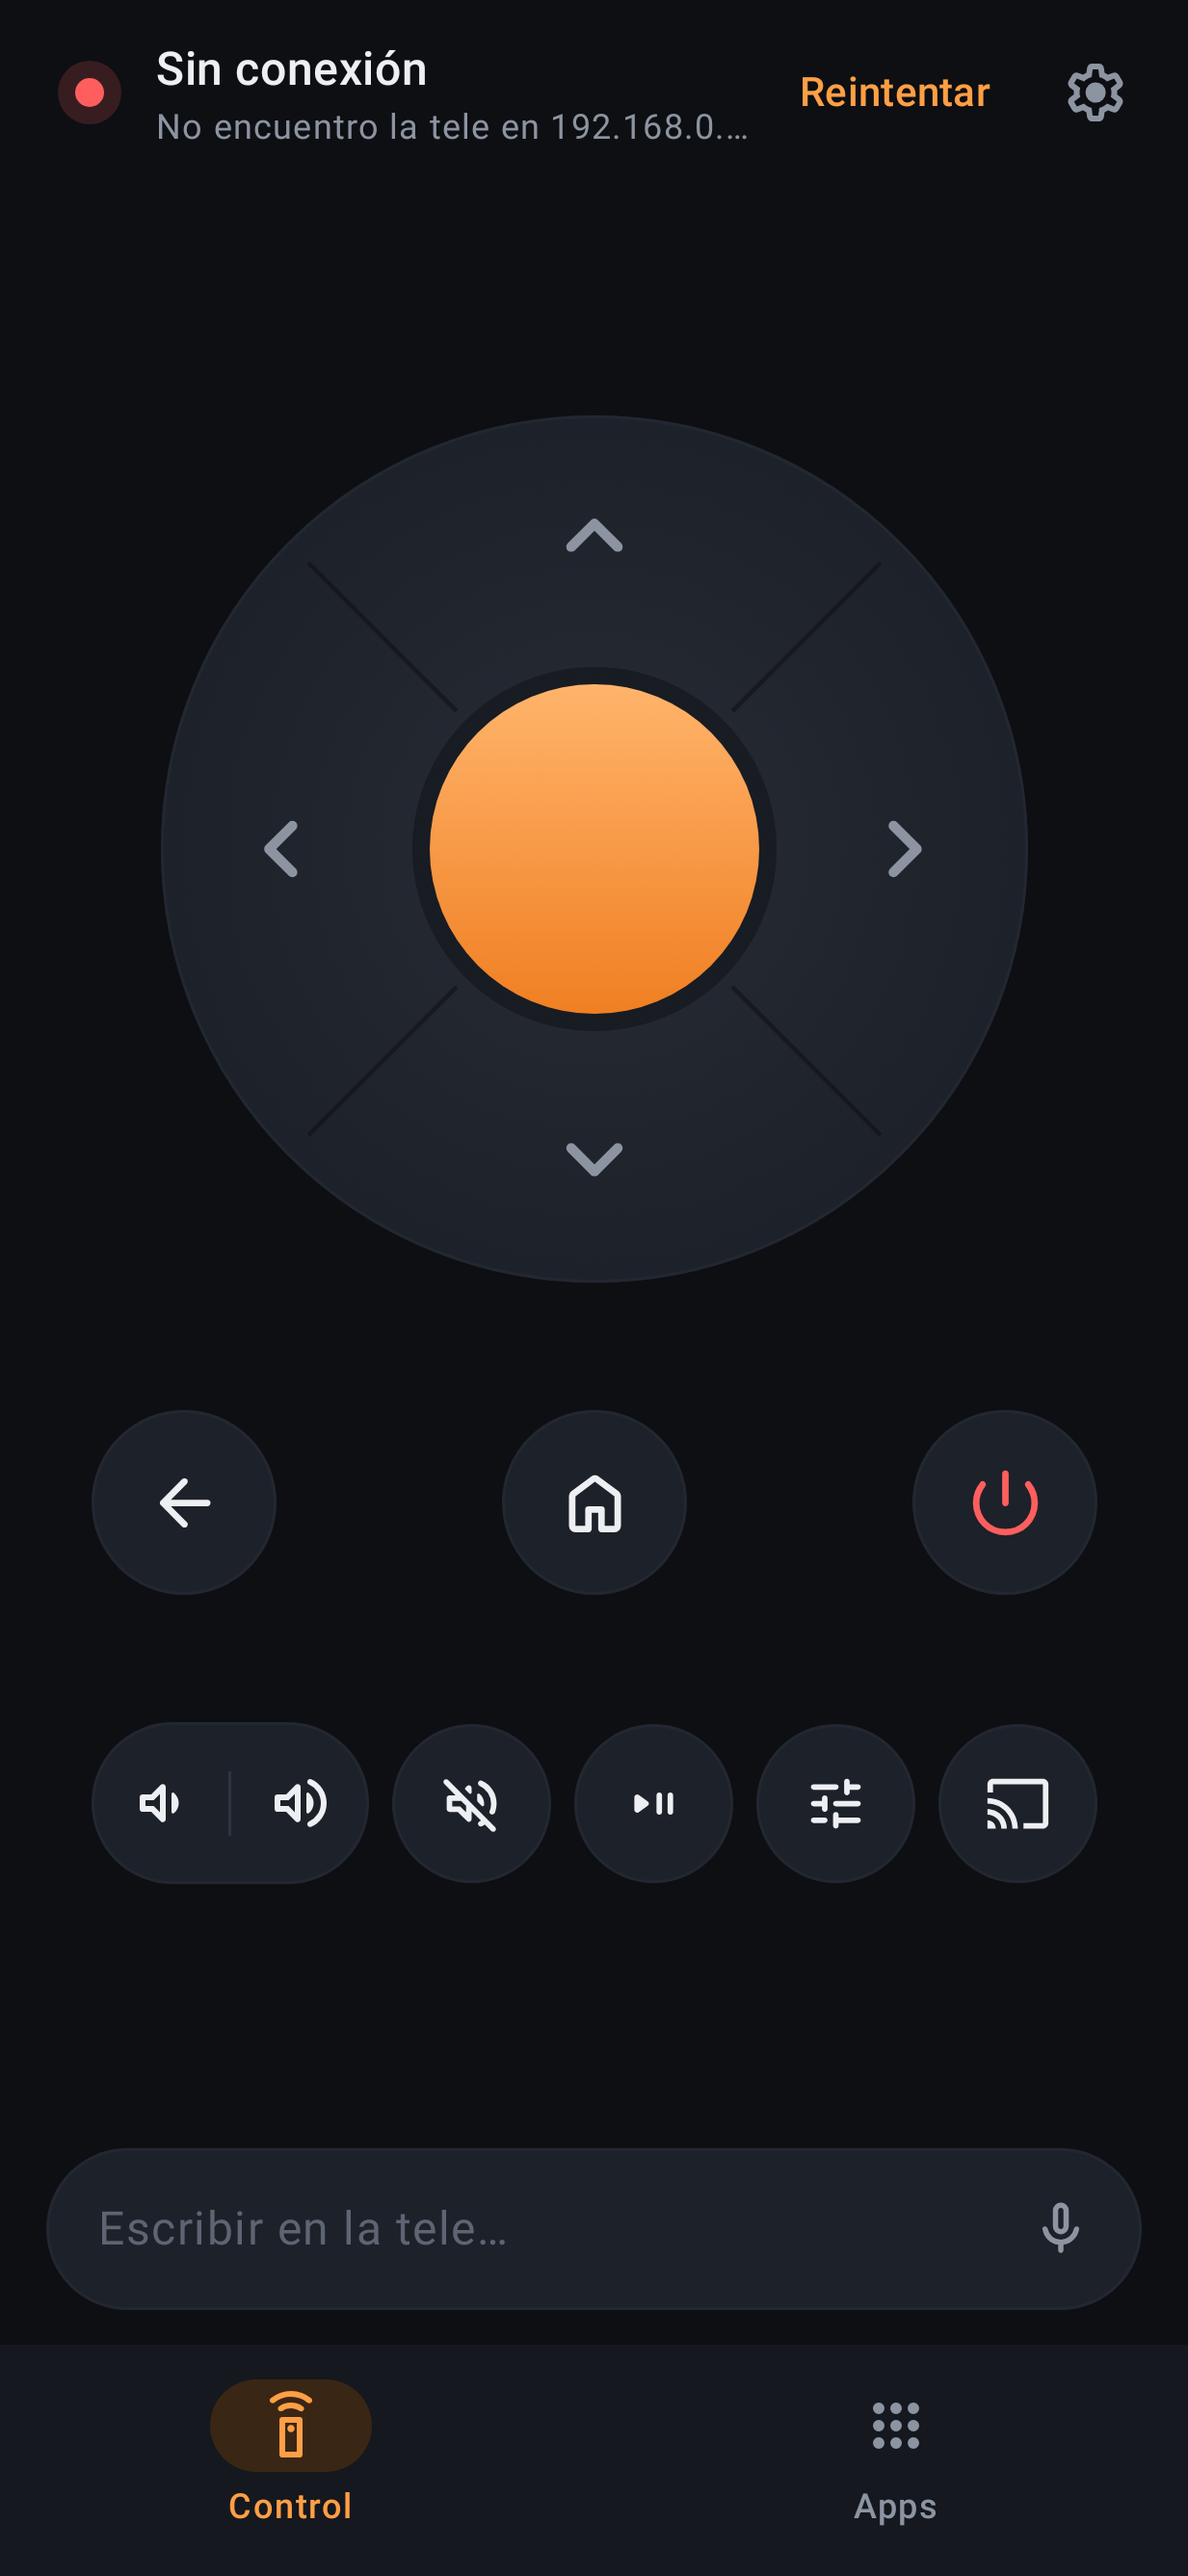
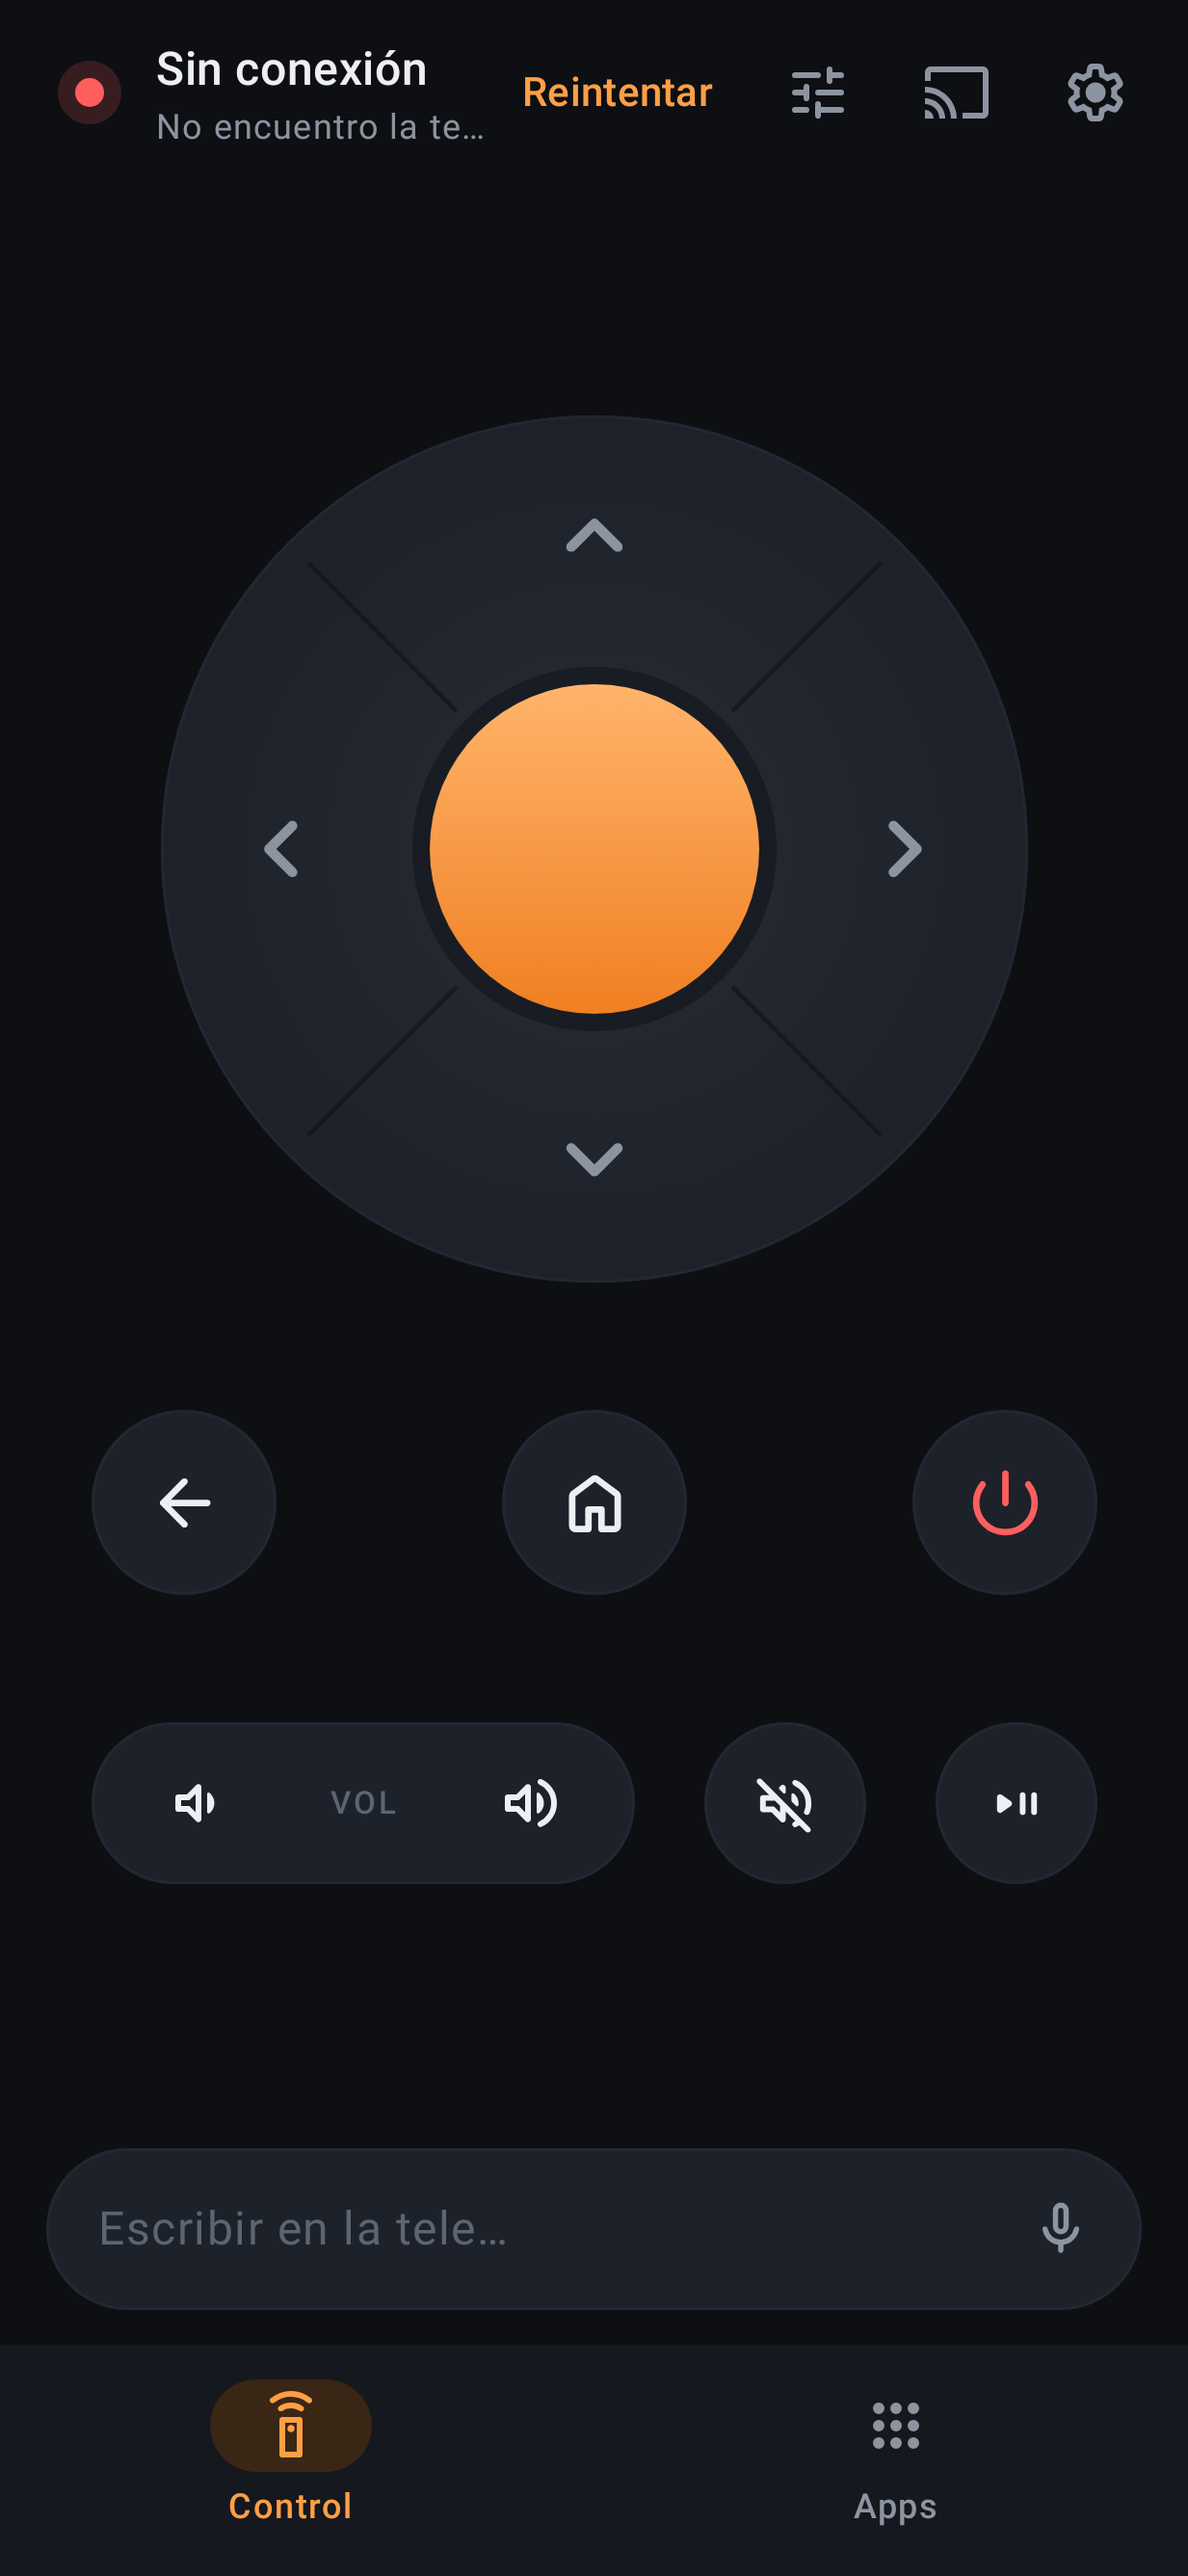
Panel rápido y Transmitir pasan a la línea de estado
Quedan al lado de Ajustes, como íconos. La fila de abajo vuelve a ser
volumen · silencio · play/pausa, con el balancín más ancho.

diff --git a/app/src/main/java/com/gonzalo/controltv/ui/ControlScreen.kt b/app/src/main/java/com/gonzalo/controltv/ui/ControlScreen.kt
@@ -10,7 +10,6 @@ import androidx.compose.material3.DropdownMenu
 import androidx.compose.material3.DropdownMenuItem
 import androidx.compose.runtime.remember
 import androidx.compose.ui.platform.LocalContext
-import androidx.compose.ui.unit.Dp
 import androidx.core.content.ContextCompat
 import android.content.ActivityNotFoundException
 import android.content.Intent
@@ -127,7 +126,14 @@ fun ControlScreen(
     }
 
     Column(modifier.fillMaxSize()) {
-        StatusHeader(state, appLabel, settings.ip, onOpenSettings, actions::retry, onRepair)
+        StatusHeader(state, appLabel, settings.ip, onOpenSettings, actions::retry, onRepair) {
+            // La tecla de configuración del control: abre el panel rápido de Google TV.
+            // Es la única forma de llegar a la configuración: la tele rechaza los links a esas pantallas.
+            IconButton(onClick = { actions.key(Keys.SETTINGS) }) {
+                Icon(painterResource(R.drawable.ic_tune), "Panel rápido", tint = Palette.TextMuted)
+            }
+            CastKey(casting, actions::castMedia, actions::stopCasting)
+        }
 
         BoxWithConstraints(
             Modifier
@@ -143,7 +149,7 @@ fun ControlScreen(
             } else {
                 min(min(maxWidth * 0.7f, maxHeight - 12.dp), 300.dp)
             }.coerceAtLeast(120.dp)
-            // Las filas son un poco más anchas que el pad, para que el volumen entre junto a tres botones.
+            // Las filas son un poco más anchas que el pad, para que el volumen tenga lugar junto a sus dos botones.
             val clusterWidth = maxOf(padSize + 48.dp, 300.dp).coerceAtMost(maxWidth)
             // En pantallas altas, el aire sobrante se reparte entre las filas en vez de quedar todo arriba y abajo.
             val gap = ((maxHeight - padSize - 64.dp - 56.dp) / 4).coerceIn(28.dp, 44.dp)
@@ -173,8 +179,6 @@ fun ControlScreen(
                             border = if (poweredOff) Palette.Red.copy(alpha = 0.5f) else Palette.OutlineSoft,
                         )
                     }
-                    // Volumen y cuatro botones: los botones se achican un poco antes que el balancín.
-                    val smallKey = ((clusterWidth - 96.dp - 8.dp * 4) / 4).coerceIn(44.dp, 56.dp)
                     Row(
                         Modifier.width(clusterWidth),
                         horizontalArrangement = Arrangement.SpaceBetween,
@@ -183,18 +187,14 @@ fun ControlScreen(
                         VolumeRocker(
                             onDown = { actions.key(Keys.VOLUME_DOWN) },
                             onUp = { actions.key(Keys.VOLUME_UP) },
-                            width = clusterWidth - smallKey * 4 - 8.dp * 4,
+                            width = clusterWidth - 56.dp * 2 - 24.dp * 2,
                         )
                         RoundKey(
                             R.drawable.ic_volume_off, "Silencio", { actions.key(Keys.VOLUME_MUTE) },
-                            size = smallKey, hold = Hold.None,
+                            size = 56.dp, hold = Hold.None,
                             tint = if (volume?.muted == true) Palette.Red else Palette.Text,
                         )
-                        RoundKey(R.drawable.ic_play_pause, "Play o pausa", { actions.key(Keys.MEDIA_PLAY_PAUSE) }, size = smallKey, hold = Hold.None)
-                        // La tecla de configuración del control: abre el panel rápido de Google TV.
-                        // Es la única forma de llegar a la configuración: la tele rechaza los links a esas pantallas.
-                        RoundKey(R.drawable.ic_tune, "Panel rápido", { actions.key(Keys.SETTINGS) }, size = smallKey, hold = Hold.None)
-                        CastKey(casting, smallKey, actions::castMedia, actions::stopCasting)
+                        RoundKey(R.drawable.ic_play_pause, "Play o pausa", { actions.key(Keys.MEDIA_PLAY_PAUSE) }, size = 56.dp, hold = Hold.None)
                     }
                 }
             }
@@ -233,7 +233,7 @@ fun ControlScreen(
     }
 }
 
-/** Línea de estado: punto de conexión, app en pantalla, volumen y Ajustes. */
+/** Línea de estado: punto de conexión, app en pantalla, volumen, [extra] (Panel rápido, Transmitir) y Ajustes. */
 @Composable
 fun StatusHeader(
     state: TvState,
@@ -242,6 +242,7 @@ fun StatusHeader(
     onOpenSettings: () -> Unit,
     onRetry: () -> Unit,
     onRepair: () -> Unit,
+    extra: @Composable () -> Unit = {},
 ) {
     val (dot, title, subtitle) = when (state) {
         is TvState.Conectado ->
@@ -288,6 +289,7 @@ fun StatusHeader(
             ) { Text("Vincular") }
             is TvState.Conectando -> Unit
         }
+        extra()
         IconButton(onClick = onOpenSettings) {
             Icon(painterResource(R.drawable.ic_settings), "Ajustes", tint = Palette.TextMuted)
         }
@@ -347,7 +349,7 @@ private fun VolumeChip(level: Int?, muted: Boolean) {
  * "Fotos y videos" abre la galería; "Archivo del celu", el selector de archivos (descargas, otras carpetas).
  */
 @Composable
-private fun CastKey(casting: Boolean, size: Dp, onPick: (Uri) -> Unit, onStop: () -> Unit) {
+private fun CastKey(casting: Boolean, onPick: (Uri) -> Unit, onStop: () -> Unit) {
     val context = LocalContext.current
     var menu by remember { mutableStateOf(false) }
     var pending by rememberSaveable { mutableStateOf<Uri?>(null) }
@@ -375,11 +377,12 @@ private fun CastKey(casting: Boolean, size: Dp, onPick: (Uri) -> Unit, onStop: (
     val files = rememberLauncherForActivityResult(ActivityResultContracts.OpenDocument()) { picked(it) }
 
     Box {
-        RoundKey(
-            R.drawable.ic_cast, "Transmitir a la tele", { menu = true },
-            size = size, hold = Hold.None,
-            tint = if (casting) Palette.Accent else Palette.Text,
-        )
+        IconButton(onClick = { menu = true }) {
+            Icon(
+                painterResource(R.drawable.ic_cast), "Transmitir a la tele",
+                tint = if (casting) Palette.Accent else Palette.TextMuted,
+            )
+        }
         DropdownMenu(expanded = menu, onDismissRequest = { menu = false }) {
             DropdownMenuItem(
                 text = { Text("Fotos y videos") },

diff --git a/README.md b/README.md
@@ -45,9 +45,9 @@ Oscuro, porque se usa de noche frente a la tele: fondo grafito y un solo color d
 | Acento (OK, enviar, selección) | `#FF9F45` |
 | Conectado / error | `#3DDC97` · `#FF5E5E` |
 
-- **Control**: línea de estado arriba (punto de conexión, app en pantalla, volumen, Ajustes).
-  En el medio, el pad circular con el OK ámbar como protagonista; abajo, Atrás · Inicio ·
-  Encendido y, más abajo, volumen · silencio · play/pausa · panel rápido · transmitir. La barra de texto queda cerca del
+- **Control**: línea de estado arriba (punto de conexión, app en pantalla, volumen, Panel rápido,
+  Transmitir y Ajustes). En el medio, el pad circular con el OK ámbar como protagonista; abajo, Atrás · Inicio ·
+  Encendido y, más abajo, volumen · silencio · play/pausa. La barra de texto queda cerca del
   pulgar: el campo y el micrófono (borrar y mandar se hacen con el teclado del celu). Si el
   teclado ocupa la pantalla, se esconden las filas y queda el pad.
 - **Apps**: grilla de tarjetas con el ícono de cada app. El ícono oficial se baja una vez de
